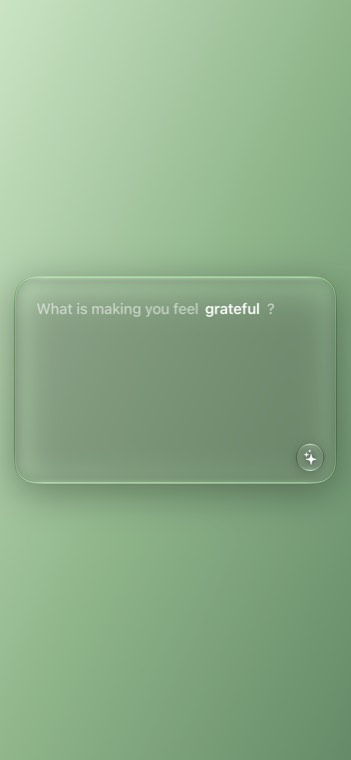
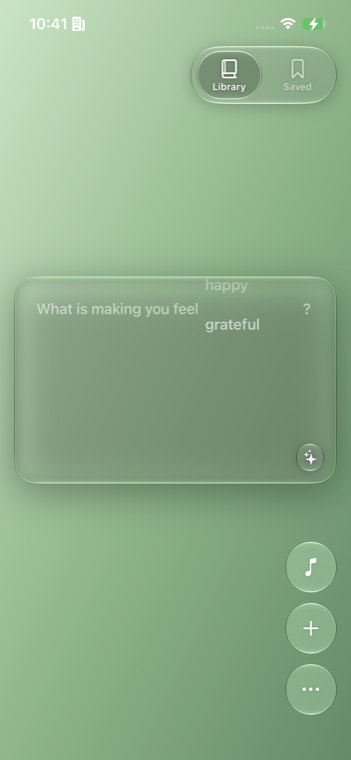
June: feeling wheel mid-pick, video mosaic, and On this day

diff --git a/june.html b/june.html
@@ -8,9 +8,9 @@
 <link rel="preconnect" href="https://fonts.googleapis.com">
 <link rel="preconnect" href="https://fonts.gstatic.com" crossorigin="">
 <link href="https://fonts.googleapis.com/css2?family=Inter:wght@400..800&amp;display=swap" rel="stylesheet">
-<link rel="stylesheet" href="styles.css?v=20260721225723">
-<script src="site.js?v=20260721225723" defer=""></script>
-<script src="editor.js?v=20260721225723" defer=""></script>
+<link rel="stylesheet" href="styles.css?v=20260721230400">
+<script src="site.js?v=20260721230400" defer=""></script>
+<script src="editor.js?v=20260721230400" defer=""></script>
 </head>
 <body>
 <a class="skip" href="#main">Skip to content</a>
@@ -43,9 +43,13 @@
   <div class="mediarow shots"><figure class="media reveal"><img src="assets/june/june-feed-paris.jpg" alt="The June feed: a street at dusk filling the screen, with the thumbnail strip and date pill below" loading="lazy"></figure><figure class="media reveal"><img src="assets/june/june-feed-highline.jpg" alt="The June feed showing highliners walking lines across the sky" loading="lazy"></figure><figure class="media reveal"><img src="assets/june/june-feed-moon.jpg" alt="A night photo of the moon over a ridge in the June feed" loading="lazy"></figure></div>
   <p class="cap-line">The feed builds itself out of the photo library: days, trips, and the moments in between.</p>
 
-  <div class="prose sec"><h2>The idea</h2><p>Social apps spent a decade making exploration feel effortless. The problem wasn't how they worked, it was what they asked us to consume. June uses those same tools to help you rediscover your own life.</p></div><div class="prose sec"><h2>Designing it and building it</h2><p>I designed June and then built all of it in Swift and UIKit: the feed that assembles itself out of the photo library, the music layer, and the backend that keeps it fluid on seamless features.</p></div><div class="prose sec"><h2>Nobody wants to face a blank page</h2><p>Journaling apps open on an empty screen and a blinking cursor, June never starts from nothing. It opens on your life already arranged: today, yesterday, the trip you took last month, grouped without you asking for it. Writing is one tap away from a photo you already care about, and the prompt is waiting for you: <em>What is making you feel grateful?.</em></p></div>
+  <div class="prose sec"><h2>The idea</h2><p>Social apps spent a decade making exploration feel effortless. The problem wasn't how they worked, it was what they asked us to consume. June uses those same tools to help you rediscover your own life.</p></div><div class="prose sec"><h2>Designing it and building it</h2><p>I designed June and then built all of it in Swift and UIKit: the feed that assembles itself out of the photo library, the music layer, and the backend that keeps it fluid on seamless features.</p></div>
+  <div class="mediarow pair"><figure class="media reveal"><img src="assets/june/june-videos.jpg" alt="A mosaic in the feed mixing several videos from one trip" loading="lazy"></figure><figure class="media reveal"><img src="assets/june/june-onthisday.jpg" alt="An On this day page surfacing a bowling night from three years earlier" loading="lazy"></figure></div>
+  <p class="cap-line">Videos play in place, and On this day resurfaces the same date from years past on its own.</p>
+
+  <div class="prose sec"><h2>Nobody wants to face a blank page</h2><p>Journaling apps open on an empty screen and a blinking cursor, June never starts from nothing. It opens on your life already arranged: today, yesterday, the trip you took last month, grouped without you asking for it. Writing is one tap away from a photo you already care about, and the prompt is waiting for you: <em>What is making you feel grateful?.</em></p></div>
   <div class="mediarow pair"><figure class="media reveal"><img src="assets/june/june-prompt.jpg" alt="A journal card tinted green with the prompt: What is making you feel grateful?" loading="lazy"></figure><figure class="media reveal"><img src="assets/june/june-entry.jpg" alt="A written journal entry laid over the photo it belongs to" loading="lazy"></figure></div>
-  <p class="cap-line">The prompt is already waiting, tinted by the feeling you picked. Writing happens on top of the day it belongs to.</p>
+  <p class="cap-line">The feeling wheel mid pick, tinting the card as it turns. Writing happens on top of the day it belongs to.</p>
 
   <div class="prose sec"><h2>Memory has a soundtrack</h2><p>Four seconds of the right song and you are back: the car, that summer, who you were sitting next to. A photo takes longer to do that, and sometimes it never gets there at all.</p><p>So a collection in June can carry a song. Not the biggest hit from that year, but your song,&nbsp;<span style="font-size: clamp(1rem, 0.96rem + 0.2vw, 1.0625rem);">the one you played until it became part of the memory. And it starts exactly where you want, because the moment isn't the intro. It's the chorus.</span></p></div>
   <div class="mediarow pair"><figure class="media reveal"><img src="assets/june/june-music-picker.jpg" alt="The song picker showing For You suggestions drawn from the listener's own library" loading="lazy"></figure><figure class="media reveal"><img src="assets/june/june-music-services.jpg" alt="The music services sheet: Apple Music as source service, with Spotify and YouTube Music connectable" loading="lazy"></figure></div>

diff --git a/demos.html b/demos.html
@@ -8,9 +8,9 @@
 <link rel="preconnect" href="https://fonts.googleapis.com">
 <link rel="preconnect" href="https://fonts.gstatic.com" crossorigin="">
 <link href="https://fonts.googleapis.com/css2?family=Inter:wght@400..800&amp;display=swap" rel="stylesheet">
-<link rel="stylesheet" href="styles.css?v=20260721225723">
-<script src="site.js?v=20260721225723" defer=""></script>
-<script src="editor.js?v=20260721225723" defer=""></script>
+<link rel="stylesheet" href="styles.css?v=20260721230400">
+<script src="site.js?v=20260721230400" defer=""></script>
+<script src="editor.js?v=20260721230400" defer=""></script>
 </head>
 <body>
 <a class="skip" href="#main">Skip to content</a>

diff --git a/index.html b/index.html
@@ -12,9 +12,9 @@
 <link rel="preconnect" href="https://fonts.googleapis.com">
 <link rel="preconnect" href="https://fonts.gstatic.com" crossorigin="">
 <link href="https://fonts.googleapis.com/css2?family=Inter:wght@400..800&amp;display=swap" rel="stylesheet">
-<link rel="stylesheet" href="styles.css?v=20260721225723">
-<script src="site.js?v=20260721225723" defer=""></script>
-<script src="editor.js?v=20260721225723" defer=""></script>
+<link rel="stylesheet" href="styles.css?v=20260721230400">
+<script src="site.js?v=20260721230400" defer=""></script>
+<script src="editor.js?v=20260721230400" defer=""></script>
 </head>
 <body>
 <a class="skip" href="#main">Skip to content</a>

diff --git a/metrozone.html b/metrozone.html
@@ -8,9 +8,9 @@
 <link rel="preconnect" href="https://fonts.googleapis.com">
 <link rel="preconnect" href="https://fonts.gstatic.com" crossorigin="">
 <link href="https://fonts.googleapis.com/css2?family=Inter:wght@400..800&amp;display=swap" rel="stylesheet">
-<link rel="stylesheet" href="styles.css?v=20260721225723">
-<script src="site.js?v=20260721225723" defer=""></script>
-<script src="editor.js?v=20260721225723" defer=""></script>
+<link rel="stylesheet" href="styles.css?v=20260721230400">
+<script src="site.js?v=20260721230400" defer=""></script>
+<script src="editor.js?v=20260721230400" defer=""></script>
 </head>
 <body>
 <a class="skip" href="#main">Skip to content</a>

diff --git a/whirlpool.html b/whirlpool.html
@@ -8,9 +8,9 @@
 <link rel="preconnect" href="https://fonts.googleapis.com">
 <link rel="preconnect" href="https://fonts.gstatic.com" crossorigin="">
 <link href="https://fonts.googleapis.com/css2?family=Inter:wght@400..800&amp;display=swap" rel="stylesheet">
-<link rel="stylesheet" href="styles.css?v=20260721225723">
-<script src="site.js?v=20260721225723" defer=""></script>
-<script src="editor.js?v=20260721225723" defer=""></script>
+<link rel="stylesheet" href="styles.css?v=20260721230400">
+<script src="site.js?v=20260721230400" defer=""></script>
+<script src="editor.js?v=20260721230400" defer=""></script>
 </head>
 <body>
 <a class="skip" href="#main">Skip to content</a>